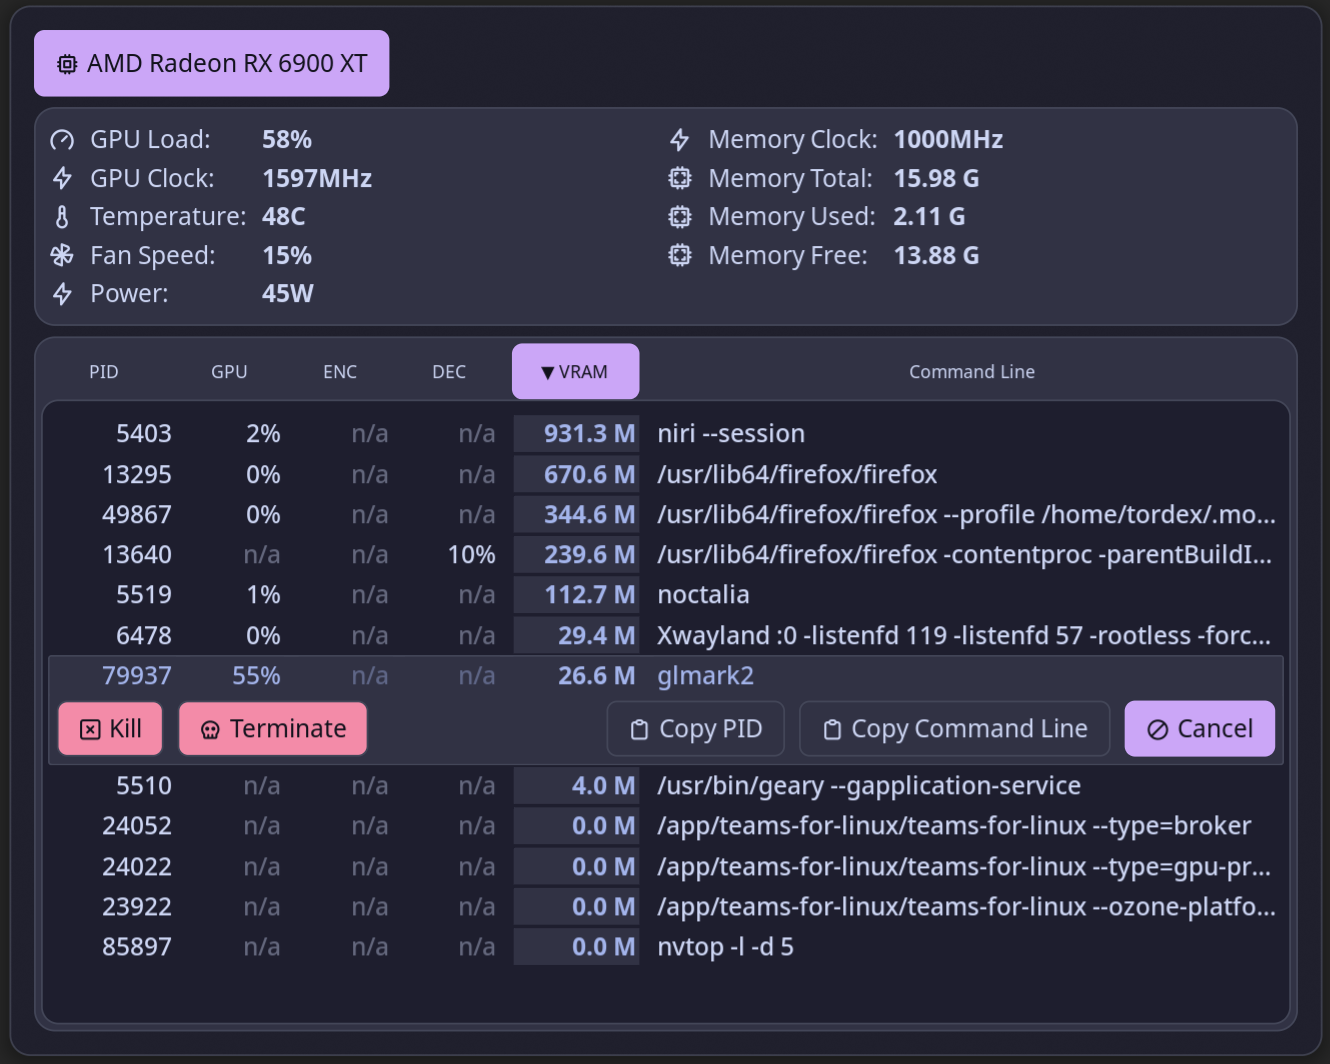
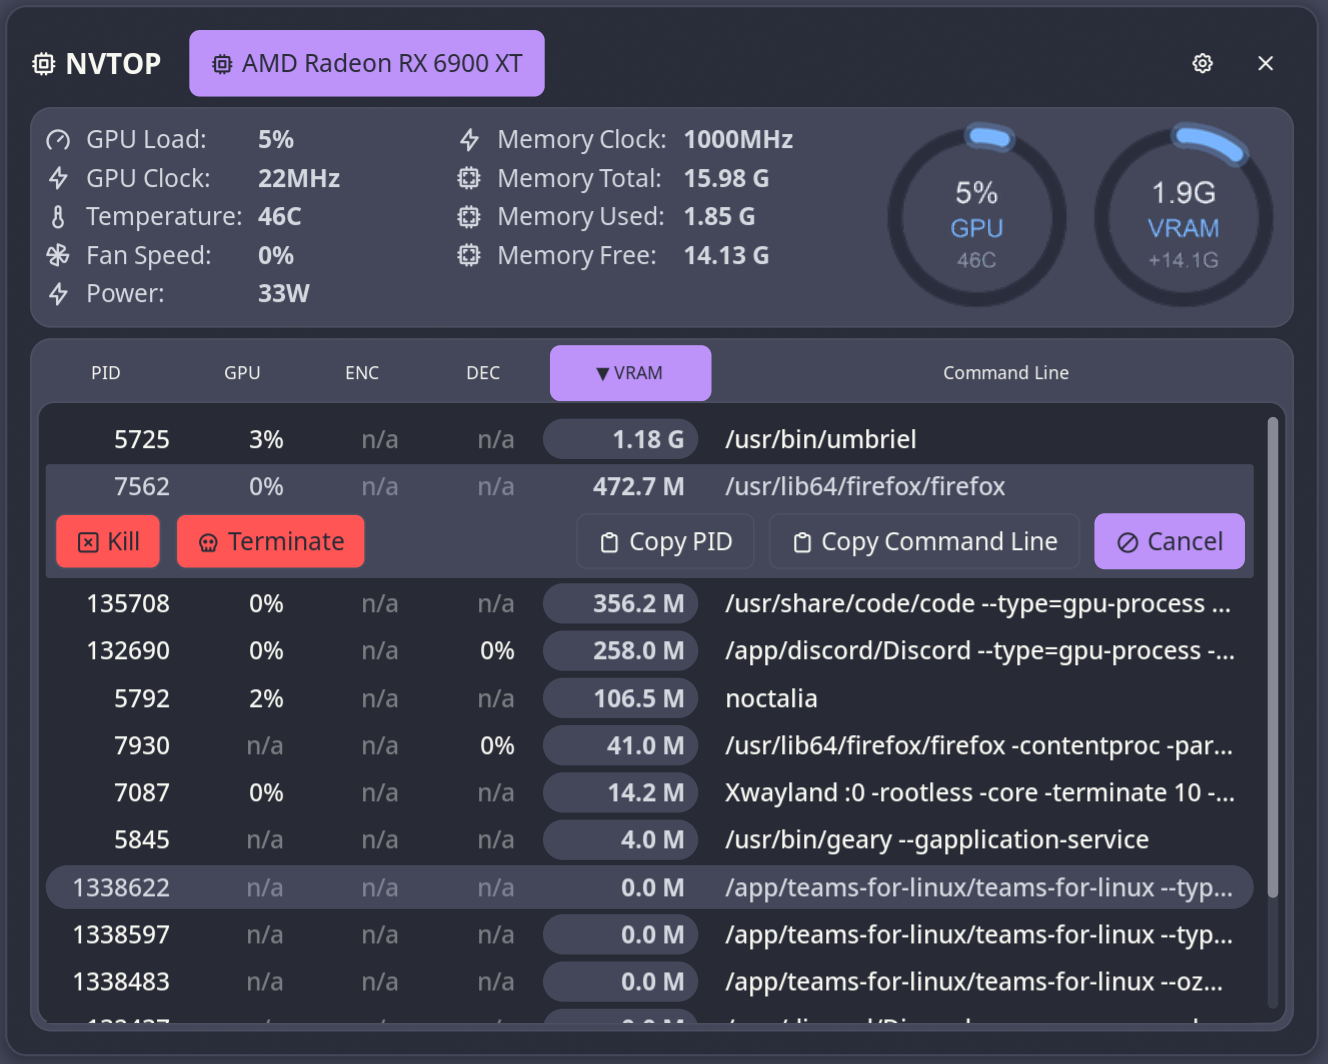
nvtop(2.2): some visual updates

diff --git a/nvtop/scripts/draw_graph.py b/nvtop/scripts/draw_graph.py
@@ -22,7 +22,7 @@ SKINS = {
     "light": {
         "track": (49, 49, 49, 255),
         "text": (31, 31, 31),
-        "label": (120, 180, 255),
+        "label": (131, 50, 244),
         "subtext": (60, 60, 60),
         "ring": (53, 132, 228),
     }

diff --git a/nvtop/README.md b/nvtop/README.md
@@ -22,15 +22,24 @@ Monitor real-time information about your GPU status and running processes with n
 | Field | Value |
 | --- | --- |
 | ID | `tordex/nvtop` |
-| Entries | Panel: `panel` |
+| Entries | Panel: `panel`; bar widget: `widget` |
 
 ## Requirements
 
-The plugin requires `nvtop`, `jq`, `kill`, and `pkill` to be installed and available in `$PATH`.
+The plugin requires `nvtop`, `python3`, `kill`, and `pkill` to be installed and available in `$PATH`.
+
+The plugin uses python script to run and collect `nvtop` output and draw GPU Load and VRAM graphs. You have to install the `Pillow` module with `pip`:
+
+```sh
+pip install Pillow
+```
+
 
 ## Usage
 
-You can open the panel by binding it in your compositor or by setting the action for `sysmon` widgets:
+Add the **NVTOP** bar widget in the shell's bar-widget picker and click it to open the process panel.
+
+You can also open the panel by binding it in your compositor or by setting the action for `sysmon` widgets:
 
 ![Actions](screenshots/actions.png)
 
@@ -82,9 +91,22 @@ Note: some GPUs share an encoder/decoder. In this case, the `ENC` and `DEC` colu
 
 | Setting | Type | Default | Description |
 | --- | --- | --- | --- |
-| `delay` | `int` | `5` | Refresh rate. `1` == `0.1s`. Valid values: `1-20`. |
+| `delay` | `int` | `5` | Refresh rate. `1` == `0.1s`. Valid values: `5-20`. |
 | `sort_column_background` | `color` | `surface_variant` | Background color for the sorted column. |
 | `sort_column_color` | `color` | `on_surface_variant` | Text color for the sorted column. |
 | `process_hover_background` | `color` | `surface_variant` | Background color for the hovered row. |
 | `process_hover_color` | `color` | `on_surface_variant` | Text color for the hovered row. |
 
+
+## Notes
+
+The panel writes some files to the `${XDG_RUNTIME_DIR}` directory when it is opened:
+
+| File name | Description |
+| --- | --- |
+| `noctalia_tordex_nvtop_params` | The information about processes filters and sorting. |
+| `noctalia_tordex_nvtop.json` | The information about processes and system. |
+| `noctalia_tordex_nvtop_gpu_usage.png` | Gauge for GPU usage |
+| `noctalia_tordex_nvtop_mem_usage.png` | Gauge for VRAM usage |
+
+`PNG` files are not deleted on panel close to prevent error messages in the noctalia log. Other files are deleted when the panel closes.
